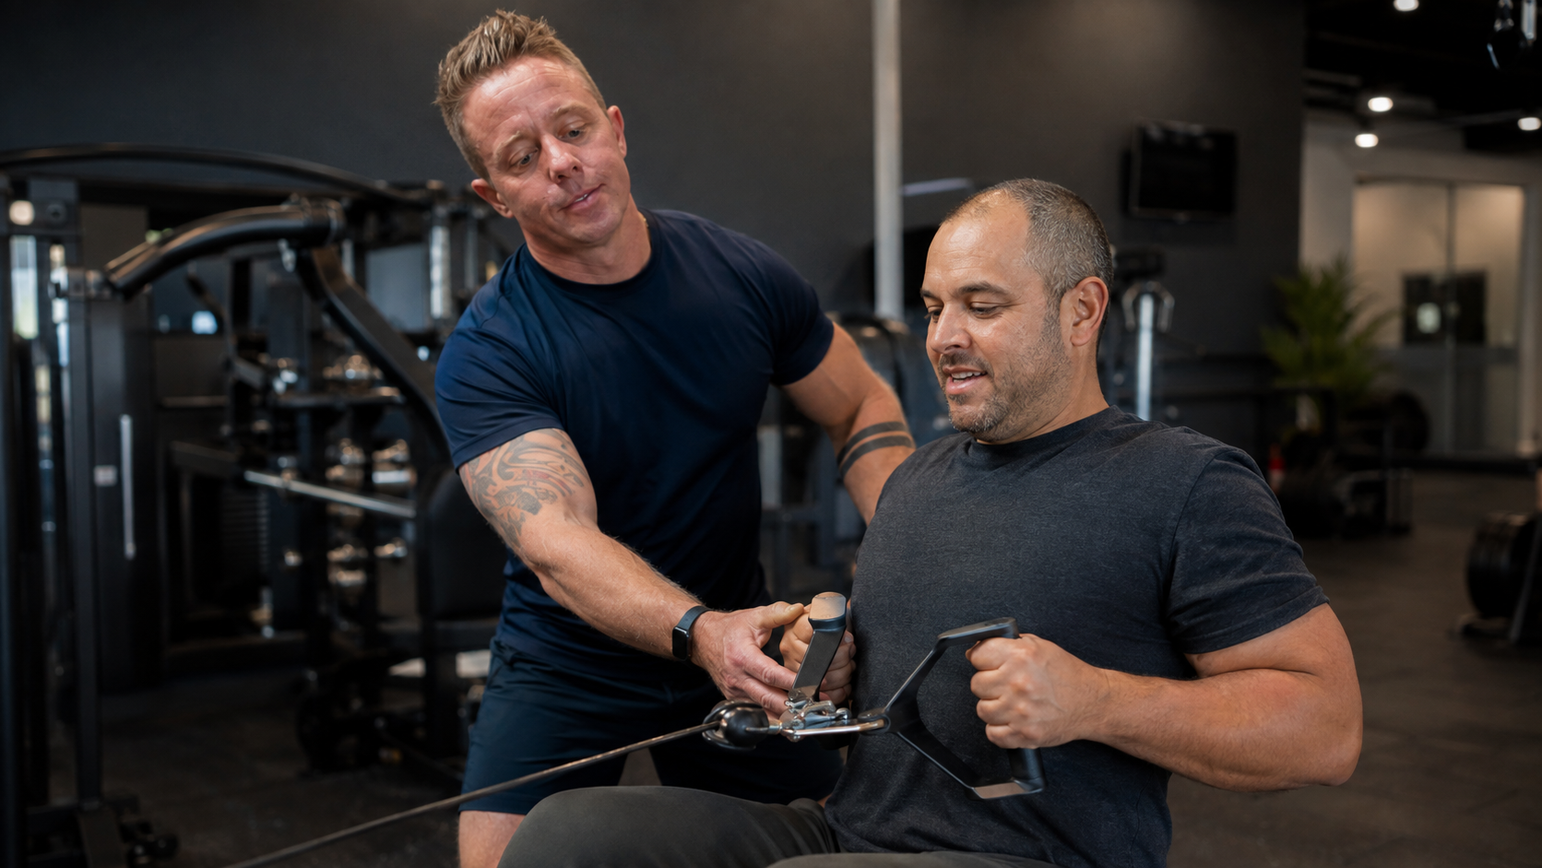
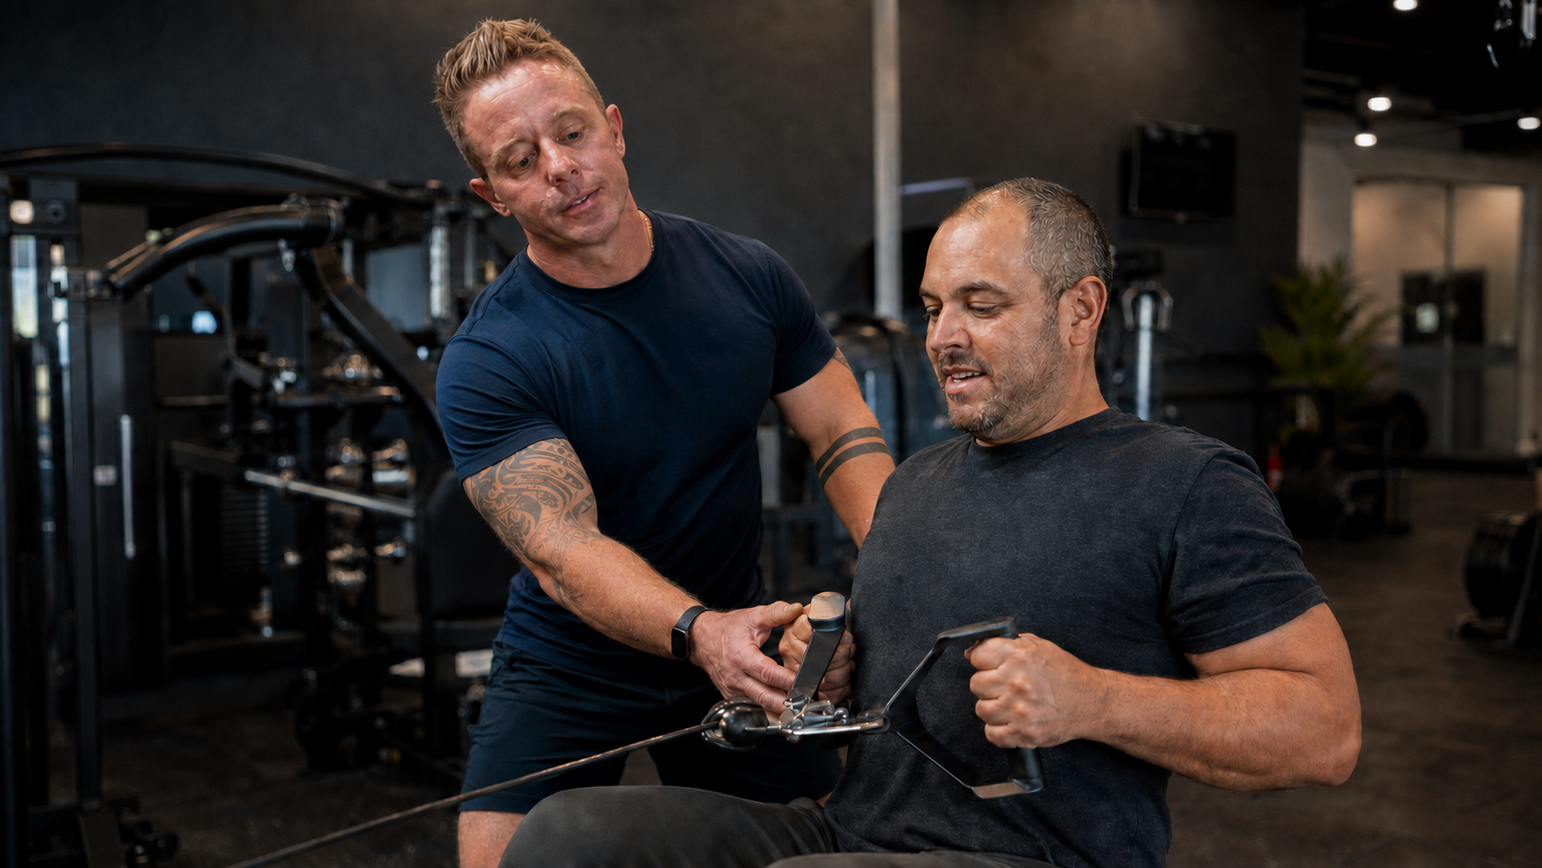
Refine training imagery and expand client services

diff --git a/gym-fitness.html b/gym-fitness.html
@@ -1,2 +1,2 @@
-<!doctype html><html lang="en-AU"><head><meta charset="utf-8"><meta name="viewport" content="width=device-width,initial-scale=1"><meta name="description" content="One-to-one gym support, fitness participation and personal training."><title>Gym Support &amp; Personal Training | Compass Support Services</title><link rel="preconnect" href="https://fonts.googleapis.com"><link rel="preconnect" href="https://fonts.gstatic.com" crossorigin><link href="https://fonts.googleapis.com/css2?family=DM+Sans:wght@400;500;600;700&family=Montserrat:wght@600;700;800&display=swap" rel="stylesheet"><link rel="stylesheet" href="https://cdnjs.cloudflare.com/ajax/libs/font-awesome/6.7.2/css/all.min.css"><link rel="stylesheet" href="style.css?v=25"></head><body><header class="site-header"><a class="brand brand-logo-link" href="index.html"><img class="site-logo" src="images/compass-logo-2026-v2.png" alt="Compass Support Services"></a><button class="menu-toggle" aria-label="Open navigation"><i class="fa-solid fa-bars"></i></button><nav class="nav-links"><a href="services.html">All Services</a><a href="community-participation.html">Community</a><a class="nav-cta" href="index.html#contact">Contact</a></nav></header>
+<!doctype html><html lang="en-AU"><head><meta charset="utf-8"><meta name="viewport" content="width=device-width,initial-scale=1"><meta name="description" content="One-to-one gym support, fitness participation and personal training."><title>Gym Support &amp; Personal Training | Compass Support Services</title><link rel="preconnect" href="https://fonts.googleapis.com"><link rel="preconnect" href="https://fonts.gstatic.com" crossorigin><link href="https://fonts.googleapis.com/css2?family=DM+Sans:wght@400;500;600;700&family=Montserrat:wght@600;700;800&display=swap" rel="stylesheet"><link rel="stylesheet" href="https://cdnjs.cloudflare.com/ajax/libs/font-awesome/6.7.2/css/all.min.css"><link rel="stylesheet" href="style.css?v=30"></head><body><header class="site-header"><a class="brand brand-logo-link" href="index.html"><img class="site-logo" src="images/compass-logo-2026-v2.png" alt="Compass Support Services"></a><button class="menu-toggle" aria-label="Open navigation"><i class="fa-solid fa-bars"></i></button><nav class="nav-links"><a href="services.html">All Services</a><a href="community-participation.html">Community</a><a class="nav-cta" href="index.html#contact">Contact</a></nav></header>
 <main><section class="service-detail-hero"><div class="service-detail-hero-inner"><a class="service-breadcrumb" href="services.html"><i class="fa-solid fa-arrow-left"></i> All services</a><p class="eyebrow">Encouragement at your pace</p><h1>Gym Support &amp; Personal Training</h1><p>One-to-one personal training and practical gym support to build confidence, skills and a consistent fitness routine.</p></div></section><section class="section service-detail-main"><div class="service-detail-layout"><div class="service-detail-copy"><h2>Make movement feel achievable</h2><p>Whether you are starting, returning or building a routine, we can support participation in activities chosen by you and guided by any relevant health or allied-health advice.</p><div class="service-ideas"><div class="service-idea"><i class="fa-solid fa-dumbbell"></i><div><strong>Personal training</strong>One-to-one workout guidance shaped around your goals, experience and preferred pace.</div></div><div class="service-idea"><i class="fa-solid fa-person-walking"></i><div><strong>Active outings</strong>Walking, gentle recreation, swimming visits or local activities.</div></div><div class="service-idea"><i class="fa-solid fa-calendar-check"></i><div><strong>Consistency</strong>Planning sessions, packing what you need and tracking personal goals.</div></div><div class="service-idea"><i class="fa-solid fa-flag"></i><div><strong>Virtual putting</strong>A lower-pressure indoor option combining movement, focus and fun.</div></div></div><p>Compass can provide personal training, participation support, encouragement and practical gym assistance. Where you have clinical advice from a physiotherapist or exercise physiologist, we work within that guidance.</p><div class="service-funding"><h3>Funding and ordinary activity costs</h3><p>NDIS funding may cover disability-related support needed to participate when it meets the funding criteria and your plan goals. Standard gym memberships, entry fees and ordinary equipment are generally personal costs.</p><p><a href="https://ourguidelines.ndis.gov.au/supports-you-can-access-menu/social-and-community-participation/social-and-recreation-support/what-do-we-mean-social-and-recreation-support">Read the NDIS recreation guidance</a></p><p class="service-disclaimer">Please check your individual plan before booking.</p></div></div><aside class="service-sidebar"><p class="eyebrow">A different way to move</p><h2>Virtual putting</h2><p>Indoor, adaptable and social—without needing to walk a full course.</p><a class="button button-primary" href="virtual-putting.html">See virtual putting</a><a class="button button-secondary" href="index.html#contact">Make an enquiry</a></aside></div></section></main><footer><div class="trust-banner">Your pace <span>•</span> Your goals <span>•</span> Your choice</div><div class="footer-main"><p>Support for confidence, independence and connection.</p><p class="copyright">© <span id="year"></span> Compass Support Services.</p></div></footer><script src="script.js?v=10"></script></body></html>

diff --git a/services.html b/services.html
@@ -17,7 +17,7 @@
         <a class="audience-page-item reveal" href="community-participation.html"><i class="fa-solid fa-people-group"></i><h3>Community Participation</h3><p>Build confidence, connections and a routine in the community.</p></a><a class="audience-page-item reveal" href="transport-appointments.html"><i class="fa-solid fa-car-side"></i><h3>Transport &amp; Appointments</h3><p>Friendly support before, during and after the journey.</p></a><a class="audience-page-item reveal" href="home-shopping-daily-living.html"><i class="fa-solid fa-basket-shopping"></i><h3>Home, Shopping &amp; Daily Living</h3><p>Practical help that makes everyday tasks more manageable.</p></a>
         <a class="audience-page-item reveal" href="gym-fitness.html"><i class="fa-solid fa-dumbbell"></i><h3>Gym &amp; Personal Training</h3><p>Personal training, encouragement and support to stay active.</p></a><a class="audience-page-item reveal" href="ndis-home-cleaning.html"><i class="fa-solid fa-broom"></i><h3>Home Cleaning Support</h3><p>Personal, non-commercial help with essential home cleaning.</p></a><a class="audience-page-item reveal" href="ndis-car-washing.html"><i class="fa-solid fa-car-on"></i><h3>Personal Car Washing</h3><p>Practical assistance with washing a personal vehicle.</p></a>
         <a class="audience-page-item reveal" href="social-outings.html"><i class="fa-solid fa-mug-hot"></i><h3>Social Outings</h3><p>Friendly company for activities, interests and local outings.</p></a><a class="audience-page-item reveal" href="virtual-putting.html"><i class="fa-solid fa-golf-ball-tee"></i><h3>Virtual Putting</h3><p>An engaging activity for fun, movement and social connection.</p></a><a class="audience-page-item reveal" href="holiday-travel.html"><i class="fa-solid fa-plane-departure"></i><h3>Holiday &amp; Travel Support</h3><p>Thoughtful planning and support for day trips and travel.</p></a>
-        <a class="audience-page-item reveal" href="technology-digital-skills.html"><i class="fa-solid fa-laptop"></i><h3>Technology &amp; Digital Skills</h3><p>Patient help with devices, online tasks and useful skills.</p></a><a class="audience-page-item reveal" href="admin-planning.html"><i class="fa-solid fa-clipboard-list"></i><h3>Admin, Scheduling &amp; Planning</h3><p>Bring clarity to paperwork, routines and practical planning.</p></a>
+        <a class="audience-page-item reveal" href="technology-digital-skills.html"><i class="fa-solid fa-laptop"></i><h3>Technology &amp; Digital Skills</h3><p>Patient help with devices, online tasks and useful skills.</p></a><a class="audience-page-item reveal" href="admin-planning.html"><i class="fa-solid fa-clipboard-list"></i><h3>Admin, Scheduling &amp; Planning</h3><p>Bring clarity to paperwork, routines and practical planning.</p></a><a class="audience-page-item reveal" href="moving-relocation-support.html"><i class="fa-solid fa-box-open"></i><h3>Moving &amp; Relocation Support</h3><p>Planning, sorting, packing assistance and help settling in.</p></a><a class="audience-page-item reveal" href="garden-outdoor-help.html"><i class="fa-solid fa-seedling"></i><h3>Garden &amp; Outdoor Help</h3><p>Light gardening, lawn mowing and basic outdoor upkeep.</p></a>
       </div>
     </section>
     <section class="contact-section"><div class="contact-card reveal"><p class="eyebrow">Not sure where to begin?</p><h2>Tell us what you would like help with</h2><p>We can talk through your goals and identify the most useful place to start.</p><div class="contact-actions"><a class="button button-secondary" href="tel:0407390321"><i class="fa-solid fa-phone"></i> 0407 390 321</a><a class="button button-secondary" href="index.html#email-enquiry"><i class="fa-regular fa-envelope"></i> Send an Email Enquiry</a></div></div></section>

diff --git a/reviews.html b/reviews.html
@@ -1,0 +1,4 @@
+<!doctype html><html lang="en-AU"><head><meta charset="utf-8"><meta name="viewport" content="width=device-width,initial-scale=1"><meta name="description" content="Read approved client feedback about Compass Support Services and share private feedback with Mark."><title>Client Feedback | Compass Support Services</title><link rel="preconnect" href="https://fonts.googleapis.com"><link rel="preconnect" href="https://fonts.gstatic.com" crossorigin><link href="https://fonts.googleapis.com/css2?family=DM+Sans:wght@400;500;600;700&family=Montserrat:wght@600;700;800&display=swap" rel="stylesheet"><link rel="stylesheet" href="https://cdnjs.cloudflare.com/ajax/libs/font-awesome/6.7.2/css/all.min.css"><link rel="stylesheet" href="style.css?v=30"></head><body>
+<header class="site-header"><a class="brand brand-logo-link" href="index.html" aria-label="Compass Support Services home"><img class="site-logo" src="images/compass-logo-2026-v2.png" alt="Compass Support Services"></a><nav class="audience-page-links" aria-label="Page navigation"><a href="services.html">Services</a><a href="about.html">About Us</a><a class="audience-page-back" href="index.html"><i class="fa-solid fa-arrow-left"></i> Home</a></nav></header>
+<main><section class="reviews-page-hero"><div class="reveal"><p class="eyebrow">Real experiences</p><h1>Client Feedback</h1><p>Kind words shared by people who have experienced Mark’s practical, reliable and personal approach.</p></div></section><section class="section reviews-section reviews-page-section"><div class="section-heading reveal"><p class="eyebrow">Shared with permission</p><h2>What clients have said</h2><p>Compass welcomes feedback from NDIS participants, aged care clients and people who book support privately.</p></div><div class="reviews-layout"><div class="feedback-summary reveal"><div class="feedback-stats"><div><strong>10</strong><span>client recommendations</span></div><div><strong data-booking-total>80+</strong><span>bookings since April 2026</span></div></div><h3>Often recognised for</h3><ul class="compliment-list"><li><i class="fa-solid fa-award"></i>Goes above and beyond <span>8</span></li><li><i class="fa-solid fa-comments"></i>Good communicator <span>8</span></li><li><i class="fa-solid fa-clock"></i>Punctual <span>7</span></li><li><i class="fa-solid fa-handshake"></i>Trustworthy <span>7</span></li><li><i class="fa-solid fa-car-side"></i>Safe driver <span>5</span></li></ul></div><div class="testimonial-list" id="approved-testimonials" aria-live="polite"><p class="testimonial-loading">Loading approved client feedback…</p></div></div><p class="review-note reveal">Only feedback approved for publication is shown. When a client prefers not to share their name, that choice is stated clearly.</p><div class="reviews-page-action reveal"><a class="button button-primary" href="feedback.html"><i class="fa-regular fa-comment-dots"></i> Share Client Feedback Privately</a></div></section></main>
+<footer><div class="trust-banner">NDIS <span>•</span> Aged Care <span>•</span> Private Support</div><div class="footer-main"><nav class="footer-links" aria-label="Website pages"><a href="index.html">Home</a><a href="services.html">Services</a><a href="ndis-support.html">NDIS Support</a><a href="aged-care-support.html">Aged Care Support</a><a href="about.html">About Us</a><a href="index.html#contact">Contact</a></nav><p class="copyright">© <span id="year"></span> Compass Support Services.</p></div></footer><script src="script.js?v=10"></script></body></html>

diff --git a/moving-relocation-support.html b/moving-relocation-support.html
@@ -1,0 +1,1 @@
+<!doctype html><html lang="en-AU"><head><meta charset="utf-8"><meta name="viewport" content="width=device-width,initial-scale=1"><meta name="description" content="Personal moving and relocation support with planning, sorting, packing assistance, bookings and settling in."><title>Moving &amp; Relocation Support | Compass</title><link rel="stylesheet" href="https://cdnjs.cloudflare.com/ajax/libs/font-awesome/6.7.2/css/all.min.css"><link rel="stylesheet" href="style.css?v=30"></head><body><header class="site-header"><a class="brand brand-logo-link" href="index.html"><img class="site-logo" src="images/compass-logo-2026-v2.png" alt="Compass Support Services"></a><nav class="audience-page-links"><a href="services.html">All Services</a><a class="audience-page-back" href="index.html"><i class="fa-solid fa-arrow-left"></i> Home</a></nav></header><main><section class="service-detail-hero"><div class="service-detail-hero-inner reveal"><a class="service-breadcrumb" href="services.html"><i class="fa-solid fa-arrow-left"></i> All services</a><p class="eyebrow">A calmer way to move</p><h1>Moving &amp; Relocation Support</h1><p>Practical, one-to-one help to plan a move, organise the details and make a new home feel manageable.</p></div></section><section class="section service-detail-main"><div class="service-detail-layout"><div class="service-detail-copy"><h2>Support before, during and after moving day</h2><p>Moving can be especially demanding when mobility, energy, confidence or organisation creates extra barriers. We work alongside you and keep your choices at the centre.</p><div class="service-ideas"><div class="service-idea"><i class="fa-solid fa-list-check"></i><div><strong>Planning</strong>Timelines, checklists, measurements, address changes and priorities.</div></div><div class="service-idea"><i class="fa-solid fa-box"></i><div><strong>Sort and pack</strong>Work through belongings in manageable stages and label essentials clearly.</div></div><div class="service-idea"><i class="fa-solid fa-phone"></i><div><strong>Bookings</strong>Help research and contact suitable removalists, cleaners or other services with your approval.</div></div><div class="service-idea"><i class="fa-solid fa-house-circle-check"></i><div><strong>Settle in</strong>Unpack everyday items, establish routines and organise the new space.</div></div></div><div class="service-funding"><h3>Clear service boundaries</h3><p>Compass provides personal planning and practical support, not a removal truck or licensed removalist service. Heavy lifting, transport of household goods and specialist installations must be completed by appropriate providers.</p><p class="service-disclaimer">Funding depends on individual circumstances. Confirm approval before booking funded support; private bookings are also welcome.</p></div></div><aside class="service-sidebar"><p class="eyebrow">Planning a move?</p><h2>Start with what feels hardest</h2><p>Tell us the timeline, the support needed and who else is involved.</p><a class="button button-primary" href="index.html#contact">Plan a conversation</a></aside></div></section></main><footer><div class="trust-banner">Prepared <span>•</span> Organised <span>•</span> Your decisions</div><div class="footer-main"><p class="copyright">© <span id="year"></span> Compass Support Services.</p></div></footer><script src="script.js?v=10"></script></body></html>

diff --git a/garden-outdoor-help.html b/garden-outdoor-help.html
@@ -1,0 +1,1 @@
+<!doctype html><html lang="en-AU"><head><meta charset="utf-8"><meta name="viewport" content="width=device-width,initial-scale=1"><meta name="description" content="Light gardening, lawn mowing and basic outdoor help for NDIS participants, aged care clients and private clients."><title>Garden &amp; Outdoor Help | Compass</title><link rel="stylesheet" href="https://cdnjs.cloudflare.com/ajax/libs/font-awesome/6.7.2/css/all.min.css"><link rel="stylesheet" href="style.css?v=30"></head><body><header class="site-header"><a class="brand brand-logo-link" href="index.html"><img class="site-logo" src="images/compass-logo-2026-v2.png" alt="Compass Support Services"></a><nav class="audience-page-links"><a href="services.html">All Services</a><a class="audience-page-back" href="index.html"><i class="fa-solid fa-arrow-left"></i> Home</a></nav></header><main><section class="service-detail-hero"><div class="service-detail-hero-inner reveal"><a class="service-breadcrumb" href="services.html"><i class="fa-solid fa-arrow-left"></i> All services</a><p class="eyebrow">Practical help outside</p><h1>Garden &amp; Outdoor Help</h1><p>Friendly assistance with light gardening, lawn care and basic outdoor tasks that keep your home more manageable.</p></div></section><section class="section service-detail-main"><div class="service-detail-layout"><div class="service-detail-copy"><h2>Keep outdoor spaces cared for</h2><p>Support can be hands-on or completed alongside you, depending on your interests, abilities and preferred level of participation.</p><div class="service-ideas"><div class="service-idea"><i class="fa-solid fa-leaf"></i><div><strong>Light gardening</strong>Weeding, planting, watering and tidying manageable garden beds.</div></div><div class="service-idea"><i class="fa-solid fa-scissors"></i><div><strong>Lawn and edges</strong>Basic lawn mowing and simple edging where conditions are safe.</div></div><div class="service-idea"><i class="fa-solid fa-broom"></i><div><strong>Outdoor tidy</strong>Sweeping paths, collecting light green waste and organising small outdoor areas.</div></div><div class="service-idea"><i class="fa-solid fa-seedling"></i><div><strong>Do it together</strong>Plan simple projects and participate at a comfortable pace.</div></div></div><div class="service-funding"><h3>Basic help—not specialist landscaping</h3><p>Compass does not provide tree work, working at heights, chemical spraying, major landscaping, construction or licensed trade services. We discuss equipment, site access, weather and safety before confirming a job.</p><p class="service-disclaimer">Funded eligibility varies by plan or aged-care arrangement. Private bookings are also available.</p></div></div><aside class="service-sidebar"><p class="eyebrow">What needs doing?</p><h2>Talk through the outdoor tasks</h2><p>Send a task list or photos so we can confirm what is suitable and safe.</p><a class="button button-primary" href="index.html#contact">Make an enquiry</a></aside></div></section></main><footer><div class="trust-banner">Practical <span>•</span> Safe <span>•</span> Personal</div><div class="footer-main"><p class="copyright">© <span id="year"></span> Compass Support Services.</p></div></footer><script src="script.js?v=10"></script></body></html>

diff --git a/index.html b/index.html
@@ -22,6 +22,7 @@
       <a href="ndis-support.html">NDIS</a>
       <a href="aged-care-support.html">Aged Care</a>
       <a href="about.html">About Us</a>
+      <a href="reviews.html">Client Feedback</a>
       <a class="nav-cta" href="#contact">Contact</a>
     </nav>
   </header>
@@ -190,7 +191,7 @@
     </section>
 
     <section class="home-proof" aria-label="Why people choose Compass">
-      <div class="home-proof-inner reveal"><div><span class="home-proof-number">10</span><span>recommendations</span></div><blockquote>“Punctual, professional and friendly. I will be happy to request future assistance.”</blockquote><div class="home-proof-trust"><span><i class="fa-solid fa-shield-halved" aria-hidden="true"></i> Fully insured</span><span><i class="fa-solid fa-id-card" aria-hidden="true"></i> Worker screened</span><span><i class="fa-solid fa-kit-medical" aria-hidden="true"></i> First Aid &amp; CPR</span></div></div>
+      <a class="home-proof-inner reveal" href="reviews.html"><div><span class="home-proof-number">10</span><span>client recommendations</span></div><blockquote>“Punctual, professional and friendly. I will be happy to request future assistance.”</blockquote><div class="home-proof-trust"><span><i class="fa-solid fa-shield-halved" aria-hidden="true"></i> Fully insured</span><span><i class="fa-solid fa-id-card" aria-hidden="true"></i> Worker screened</span><span><i class="fa-solid fa-arrow-right" aria-hidden="true"></i> Read client feedback</span></div></a>
     </section>
 
     <section class="contact-section" id="contact">
@@ -228,7 +229,7 @@
     <div class="trust-banner">Fully Insured <span>•</span> First Aid Certified <span>•</span> NDIS Worker Screening <span>•</span> Police Checked</div>
     <div class="footer-main">
       <div class="footer-brand"><img class="footer-logo" src="images/compass-logo-2026-v2.png" alt="Compass Support Services"></div>
-      <nav class="footer-links" aria-label="Website pages"><a href="services.html">Services</a><a href="ndis-support.html">NDIS Support</a><a href="aged-care-support.html">Aged Care Support</a><a href="about.html">About Us</a><a href="#contact">Contact</a></nav>
+      <nav class="footer-links" aria-label="Website pages"><a href="services.html">Services</a><a href="ndis-support.html">NDIS Support</a><a href="aged-care-support.html">Aged Care Support</a><a href="about.html">About Us</a><a href="reviews.html">Client Feedback</a><a href="#contact">Contact</a></nav>
       <p>Support for confidence, independence and connection.</p>
       <p class="copyright">© <span id="year"></span> Compass Support Services. All rights reserved.</p>
     </div>

diff --git a/style.css b/style.css
@@ -288,6 +288,7 @@ body:has(main#top) #services .service-card:nth-child(n+7){display:none}body:has(
 @media(max-width:760px){.home-pathways{padding-top:58px;padding-bottom:58px}.home-pathway-grid{grid-template-columns:1fr}.home-pathway-grid a{padding:17px}.home-proof-inner{grid-template-columns:1fr;text-align:center}.home-proof-inner>div:first-child{padding:0 0 20px;border-right:0;border-bottom:1px solid rgba(255,255,255,.15)}.home-proof-trust{align-items:center}body:has(main#top) #services .services-grid{grid-template-columns:repeat(2,1fr)}}
 
 /* Services directory */
+.reviews-page-hero{min-height:480px;display:flex;align-items:flex-end;padding:110px clamp(20px,7vw,110px) 70px;background:radial-gradient(circle at 80% 25%,rgba(217,161,59,.2),transparent 27%),linear-gradient(145deg,#09243c,#020d18);color:#fff}.reviews-page-hero>div{max-width:760px}.reviews-page-hero h1{margin:.12em 0 .2em}.reviews-page-hero p:not(.eyebrow){color:#d5e3eb;font-size:1.15rem}.reviews-page-section{min-height:650px}.reviews-page-action{text-align:center;margin-top:34px}.testimonial-loading{color:#c9d7e0}.home-proof-inner{transition:.25s transform}.home-proof-inner:hover{transform:translateY(-3px)}
 .service-directory-hero{min-height:500px;display:flex;align-items:flex-end;padding:110px clamp(20px,7vw,110px) 72px;background:radial-gradient(circle at 82% 25%,rgba(18,157,151,.25),transparent 28%),linear-gradient(145deg,#09243c,#020d18);color:#fff}.service-directory-hero>div{max-width:780px}.service-directory-hero h1{margin:.12em 0 .2em}.service-directory-hero>div>p:not(.eyebrow){max-width:650px;color:#d5e3eb;font-size:1.15rem}.service-directory{background:radial-gradient(circle at 10% 10%,rgba(18,157,151,.1),transparent 25%),#041423}.service-directory .section-heading h2{color:#fff}.service-directory .section-heading>p:last-child{color:#bdced8}.service-directory .audience-page-grid{grid-template-columns:repeat(3,1fr)}
 @media(max-width:760px){.service-directory-hero{min-height:460px;padding-bottom:55px}.service-directory .audience-page-grid{grid-template-columns:1fr}}
 

diff --git a/about.html b/about.html
@@ -91,7 +91,8 @@
           <p class="eyebrow">Meet Mark</p>
           <p class="about-mark-title">Mark Walsh <span>Managing Director</span></p>
           <h2>I believe people thrive when they feel heard.</h2>
-          <p>I bring 110% to what I do. My background in corporate leadership, coaching and mentoring taught me the value of listening, following through and helping people recognise what they are capable of.</p>
+          <p>I bring 110% to what I do. My background as a corporate sales and marketing leadership professional—including experience in a large multinational environment—taught me the value of preparation, clear communication, discretion and following through.</p>
+          <p>I bring those professional standards into a much more personal setting. Every person, family and situation is different, so we listen carefully, protect your privacy and adapt our approach to provide support that genuinely fits.</p>
           <p>Fitness and an active lifestyle are a big part of who I am. I bring that same energy and encouragement to supporting people as they build confidence, gain independence and try new things.</p>
           <p>Compass Support Services grew from a simple idea: provide the kind of dependable, personal support I would want for someone important to me.</p>
           <div class="about-story-signoff"><span>Mark Walsh</span><small>Managing Director</small></div>
